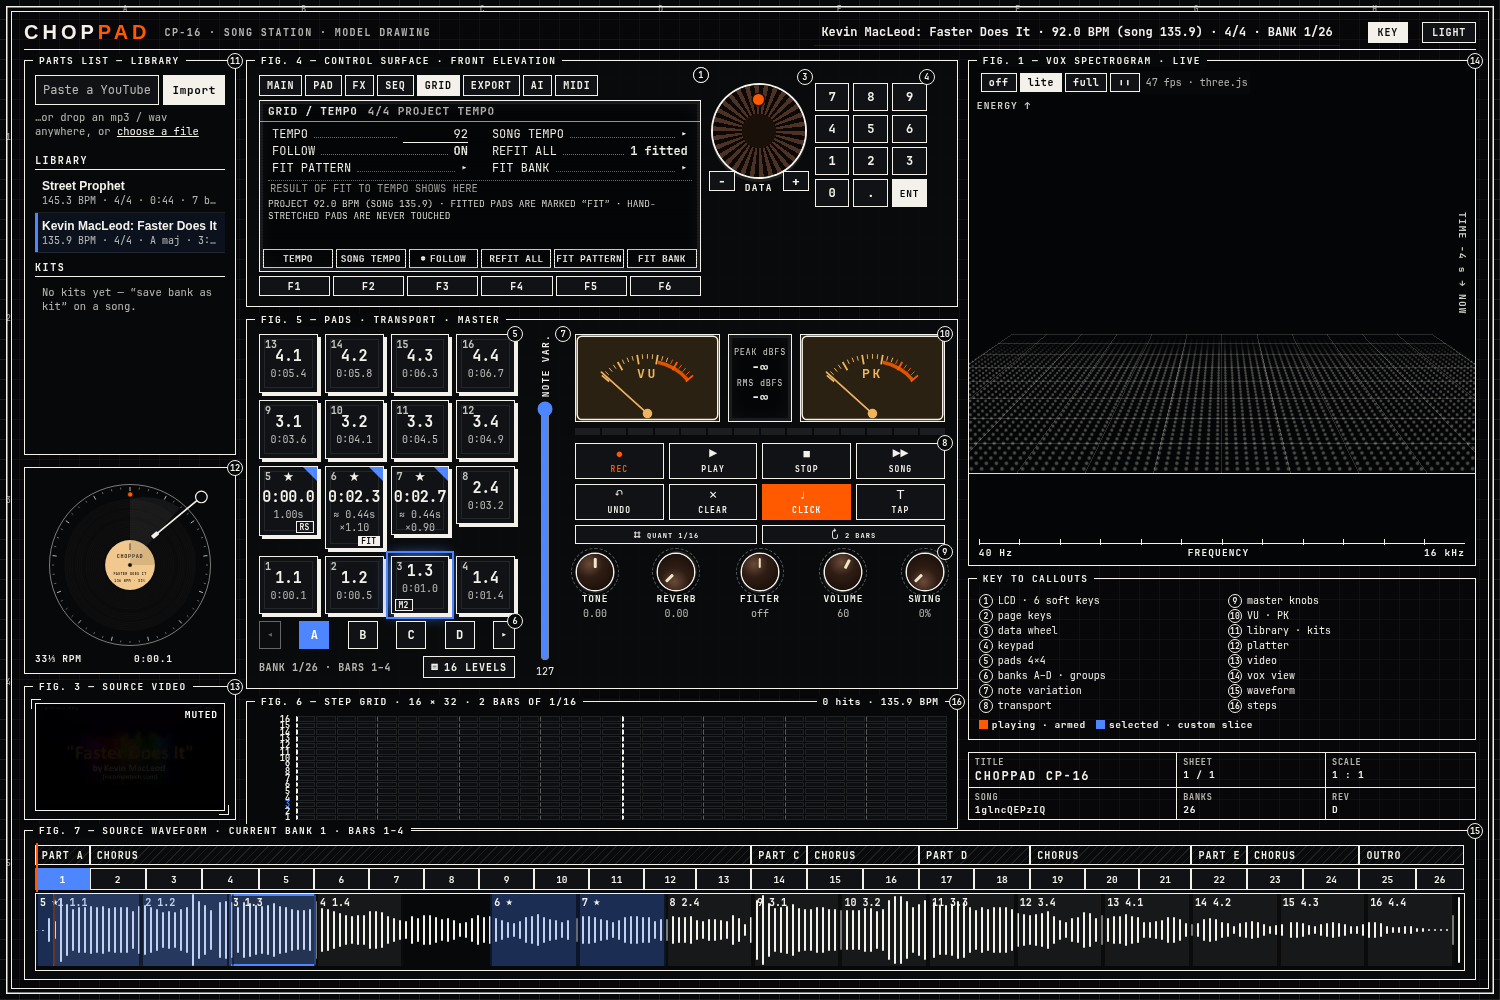
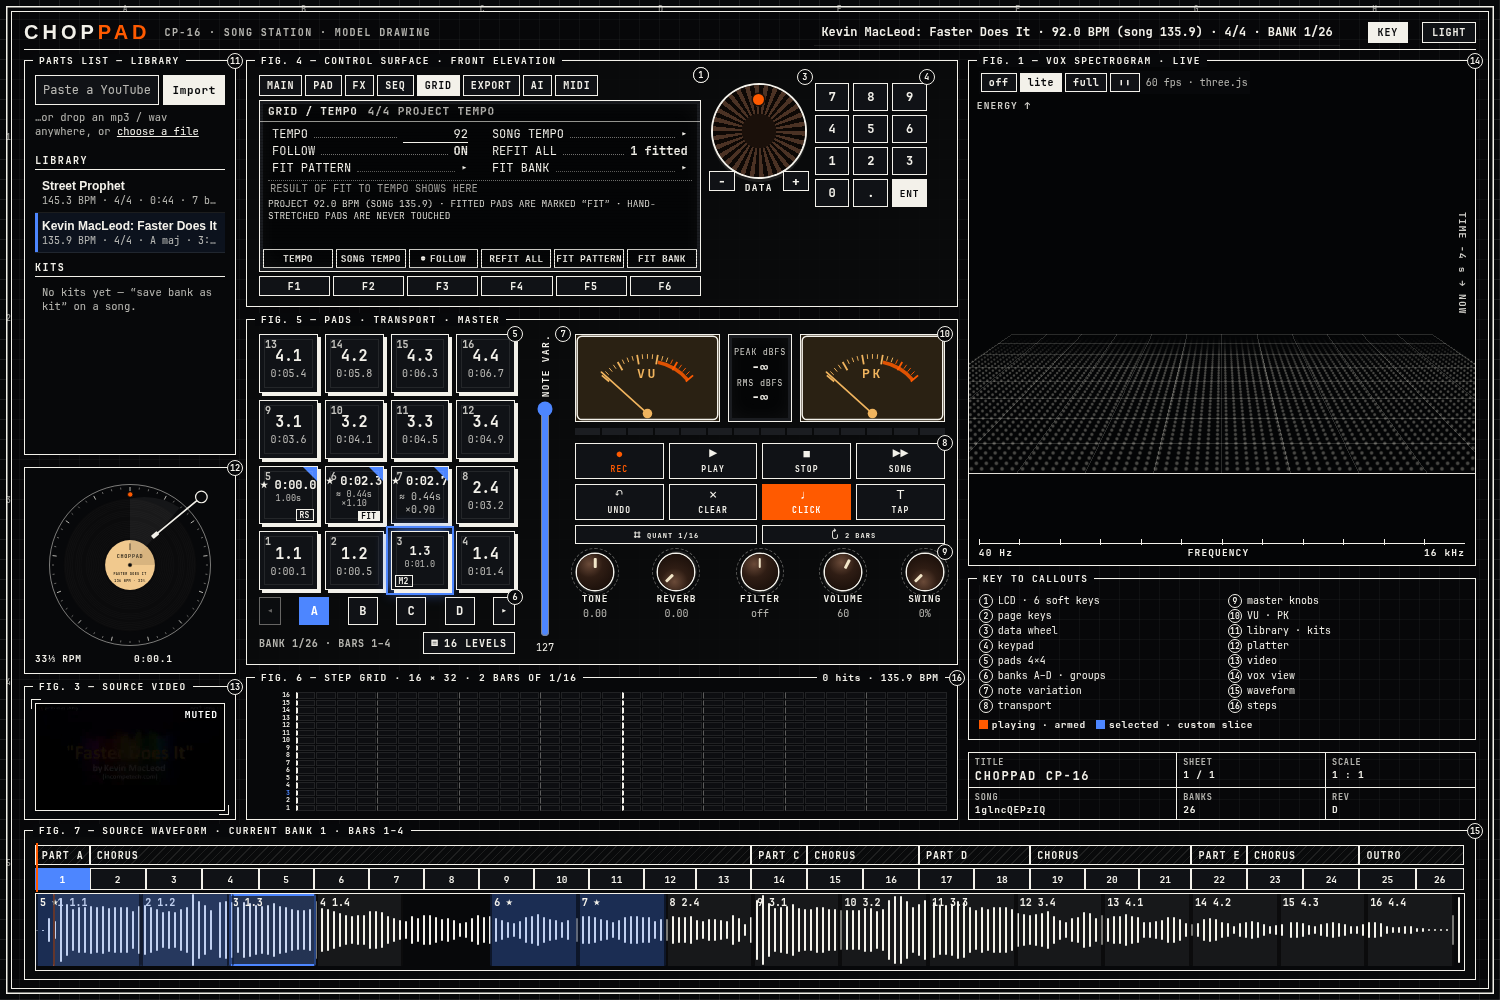
Station UI: tagged pads keep the pad size, step-grid row numbers no longer collide on short windows
Claude-Session: https://claude.ai/code/session_01SnLN1W3Y6MSay9TF9xuBTX

Changed region(s): [[0.1533, 0.465, 0.644, 0.837]]

diff --git a/components/ui/style.css b/components/ui/style.css
@@ -229,6 +229,8 @@ html[data-callouts="off"] [data-c]::after, html[data-callouts="off"] .legend { d
 .stepgrid { --steps: 32; flex: 1; min-height: 0; display: grid; grid-template-columns: 38px repeat(var(--steps), minmax(0, 1fr)); grid-template-rows: repeat(16, minmax(0, 1fr)); gap: 1px; user-select: none; }
 .stepgrid:focus-visible { outline-offset: 4px; }
 .row-name { font: 600 8.5px/1 var(--font-mono); text-align: right; padding: 0 5px 0 0; display: flex; align-items: center; justify-content: flex-end; min-height: 0; color: var(--ink); }
+/* on a 1000 px tall window a step row is under 8 px: keep the 16 row numbers from running into each other */
+@media (max-height: 1040px) { .row-name { font-size: 6.5px; line-height: .9; overflow: hidden; } }
 .row-name.empty { opacity: .4; } .row-name.selected { color: var(--acc-b); font-weight: 700; text-decoration: underline; }
 .stepgrid i { background: var(--sc-off); border: 1px solid var(--faint); min-height: 0; cursor: pointer; }
 .stepgrid i.beat { border-left-color: var(--hair); } .stepgrid i.bar { border-left: 2px solid var(--ink); }
@@ -340,7 +342,10 @@ html[data-ui="pad"] body { background-image: linear-gradient(var(--faint) 1px, t
 .pad-mg, .pad-tag { position: absolute; bottom: 2px; font: 700 8px/1 var(--font-mono); letter-spacing: .04em; padding: 1px 3px; pointer-events: none; }
 .pad-mg { left: 3px; border: 1px solid currentColor; } .pad-tag { right: 3px; background: var(--key-on); color: var(--key-on-ink); }
 .pad-mg[hidden], .pad-tag[hidden] { display: none; }
-.pad.tagged { padding-bottom: 14px; }
+/* a tagged or custom pad keeps the size of every other pad: its text shrinks, the pad never grows (a taller pad row squeezes the step grid) */
+.pad { overflow: hidden; min-height: 0; }
+.pad.tagged .pad-label, .pad.custom .pad-label, .pad.foreign .pad-label { font-size: 12px; }
+.pad.tagged .pad-time { font-size: 8.5px; line-height: 1.05; margin-bottom: 9px; }
 .pad.handstretched .pad-time::before { content: "≈ "; }
 .pad.resampled .pad-tag { background: transparent; color: inherit; border: 1px solid currentColor; }
 .pad.hit .pad-tag { background: var(--on-o); color: var(--acc-o); }

diff --git a/docs/STATUS.md b/docs/STATUS.md
@@ -1,4 +1,4 @@
-# ChopPad test status — 2026-11-22 14:23
+# ChopPad test status — 2026-11-22 15:52
 
 Generated by `tools/status.py --vault`. Do not edit by hand.
 
@@ -7,15 +7,16 @@ Generated by `tools/status.py --vault`. Do not edit by hand.
 | contracts | orchestrator | — | 11/11 | GREEN | `` |
 | ingest | agent-ingest | contracts | 10/11 (+1 skip) | GREEN | `` |
 | rhythm | agent-rhythm | contracts | 12/12 | GREEN | `` |
-| chop | agent-chop | contracts | 20/20 | GREEN | `` |
+| chop | agent-chop | contracts | 23/23 | GREEN | `` |
 | midi | agent-midi | contracts | 14/14 | GREEN | `` |
-| ui | agent-ui | contracts | 65/65 | GREEN | `` |
+| ui | agent-ui | contracts | 136/136 | GREEN | `` |
 | advisor | agent-advisor | contracts | 10/10 | GREEN | `` |
-| control | agent-control | contracts | 49/49 | GREEN | `TimeoutError: timed out` |
-| export | agent-export | contracts | 11/11 | GREEN | `` |
-| daw | agent-daw | contracts, export | 101/106 (+5 skip) | GREEN | `` |
-| integrate | agent-integrator | ingest, rhythm, chop, midi, ui, control, daw | 12/12 | GREEN | `` |
-| e2e | orchestrator | integrate | 23/23 | GREEN | `` |
+| control | agent-control | contracts | 71/71 | GREEN | `TimeoutError: timed out` |
+| stems | agent-sampler | contracts | 11/11 | GREEN | `` |
+| export | agent-export | contracts | 30/30 | GREEN | `` |
+| daw | agent-daw | contracts, export | 110/115 (+5 skip) | GREEN | `` |
+| integrate | agent-integrator | ingest, rhythm, chop, midi, ui, control, daw, stems | 24/24 | GREEN | `` |
+| e2e | orchestrator | integrate | 44/46 (+1 skip) | RED | `AssertionError: ['http://127.0.0.1:54737/api/jobs/4690ce5e061e'] is not false : the stream is used; polling is` |
 
 ```mermaid
 graph LR
@@ -26,6 +27,7 @@ graph LR
   contracts --> ui
   contracts --> advisor
   contracts --> control
+  contracts --> stems
   contracts --> export
   contracts --> daw
   export --> daw
@@ -36,6 +38,7 @@ graph LR
   ui --> integrate
   control --> integrate
   daw --> integrate
+  stems --> integrate
   integrate --> e2e
   style contracts fill:#79b58d
   style ingest fill:#79b58d
@@ -45,8 +48,9 @@ graph LR
   style ui fill:#79b58d
   style advisor fill:#79b58d
   style control fill:#79b58d
+  style stems fill:#79b58d
   style export fill:#79b58d
   style daw fill:#79b58d
   style integrate fill:#79b58d
-  style e2e fill:#79b58d
+  style e2e fill:#c47070
 ```
